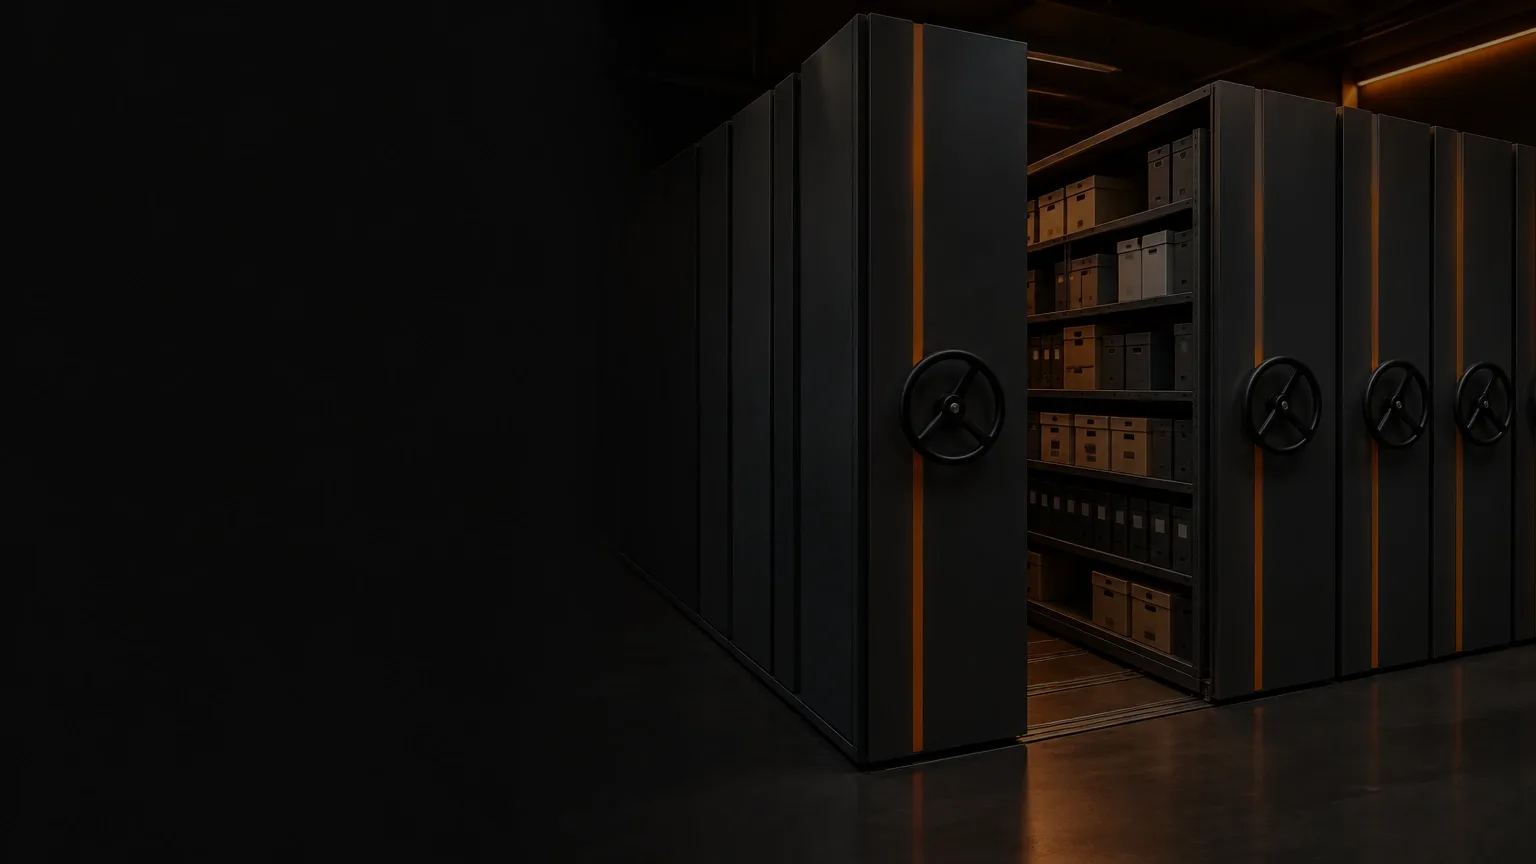
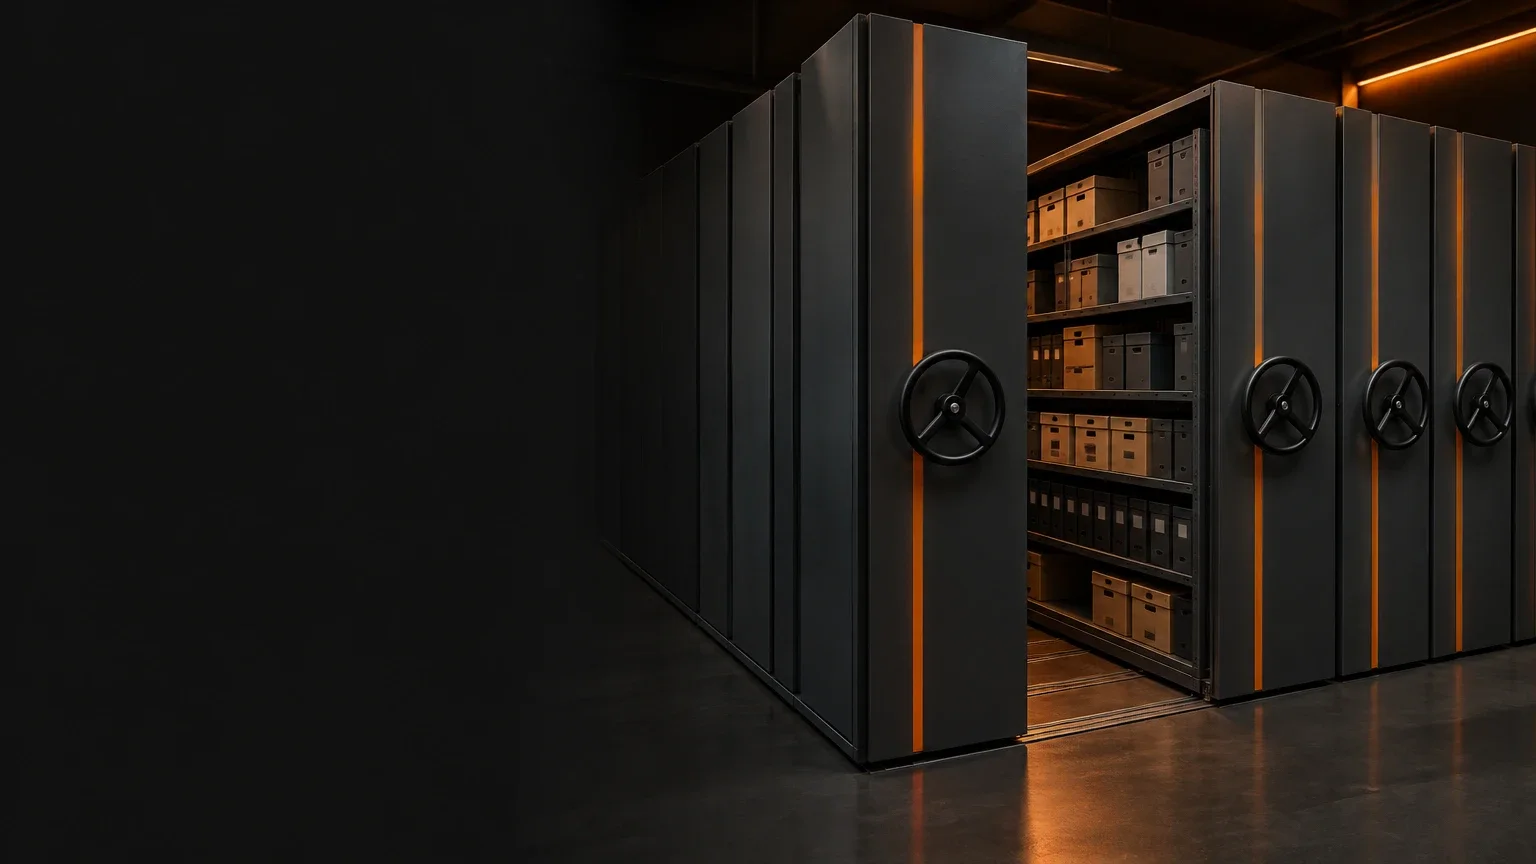
Мобильные стеллажи: яркость фона hero по макету

diff --git a/mobilnye-stellazhi.html b/mobilnye-stellazhi.html
@@ -14,7 +14,7 @@
   <link rel="stylesheet" href="css/catalog.css?v=22">
   <link rel="stylesheet" href="css/racks.css?v=48">
   <link rel="stylesheet" href="css/deep.css?v=9">
-  <link rel="stylesheet" href="css/mobile.css?v=8">
+  <link rel="stylesheet" href="css/mobile.css?v=12">
   <link rel="stylesheet" href="css/unify.css?v=4">
 </head>
 <body class="page-racks page-racks--fold page-deep page-mobile">
@@ -121,7 +121,7 @@
 </header>
 
 <main>
-  <section class="m-hero rk-hero dp-hero mb-hero" style="--rk-hero:url(../img/mobile/hero-bg.webp?v=1)">
+  <section class="m-hero rk-hero dp-hero mb-hero" style="--rk-hero:url(../img/mobile/hero-bg.webp?v=2)">
     <div class="container m-hero__inner">
       <div class="m-hero__main">
         <nav class="crumbs" aria-label="Навигационная цепочка">

diff --git a/css/mobile.css b/css/mobile.css
@@ -97,7 +97,7 @@
 .mb-hc { display: grid; gap: 8px; margin-top: 70px; }
 .mb-hc li { display: flex; align-items: center; gap: 14px; height: 64px; padding: 0 16px; font-size: 14px; font-weight: 600; line-height: 1.2; color: #fff; background: rgba(30, 30, 30, .55); border: 1px solid #585858; border-radius: 6px; }
 .mb-hc__i { flex: none; width: 30px; height: 30px; color: var(--c-accent); }
-.mb-hero::before { filter: brightness(.8); }
+.mb-hero::before { filter: contrast(.9) brightness(.82); }
 @media (max-width: 1100px) {
   .mb-hero .m-hero__inner { grid-template-columns: minmax(0, 1fr); gap: 24px; }
   .mb-hc { grid-template-columns: repeat(2, minmax(0, 1fr)); margin-top: 0; }
